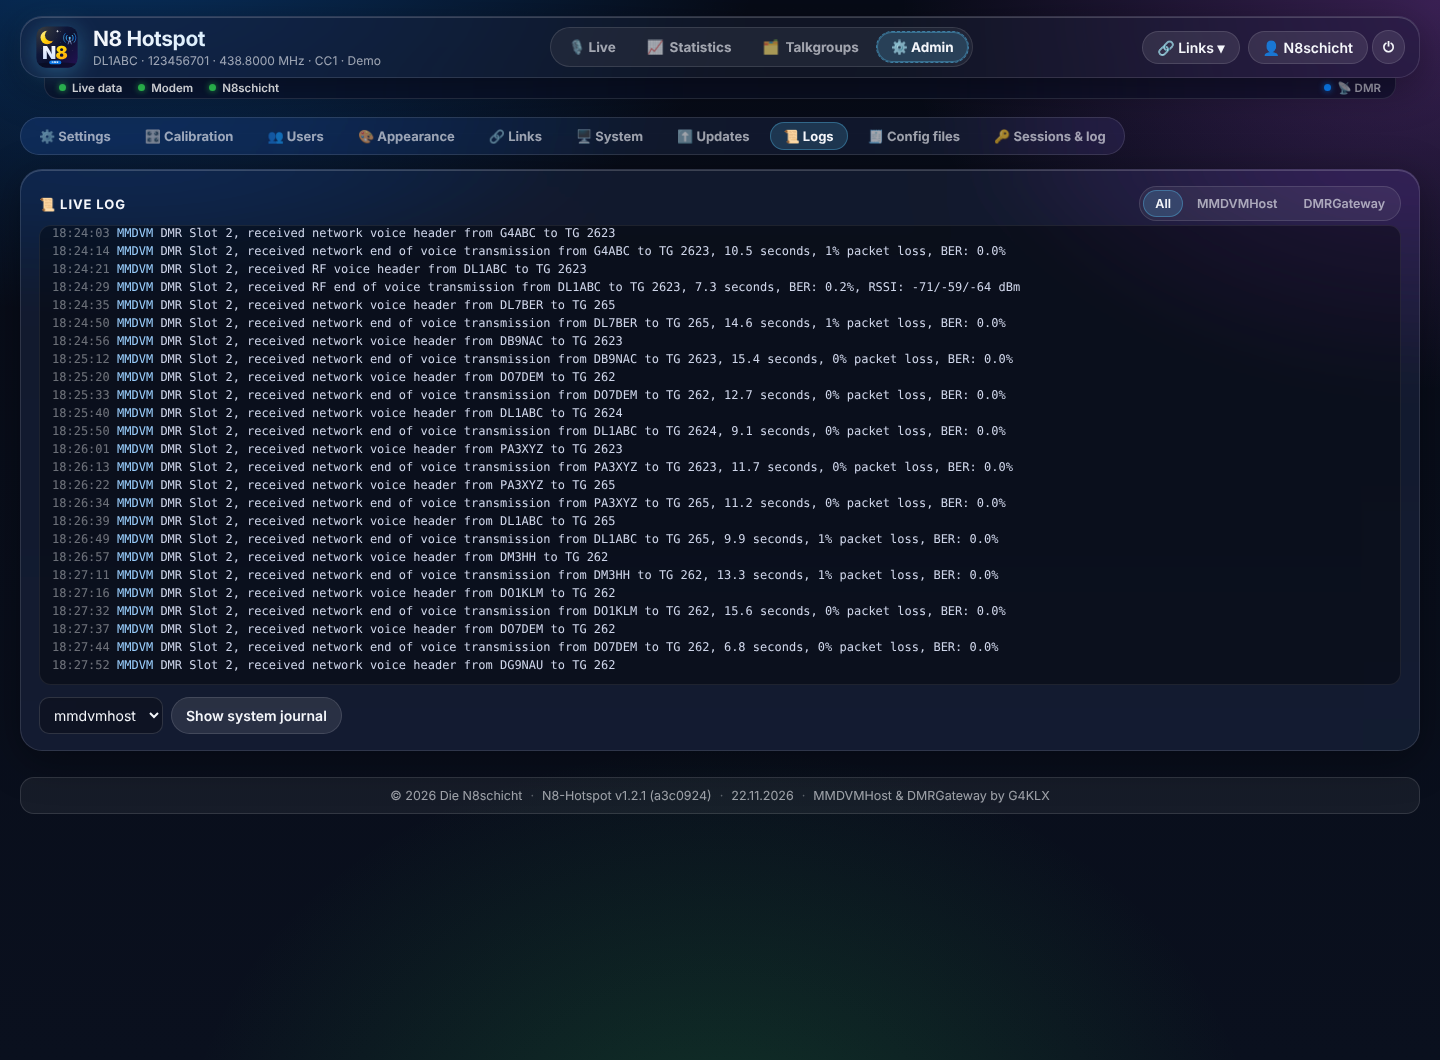
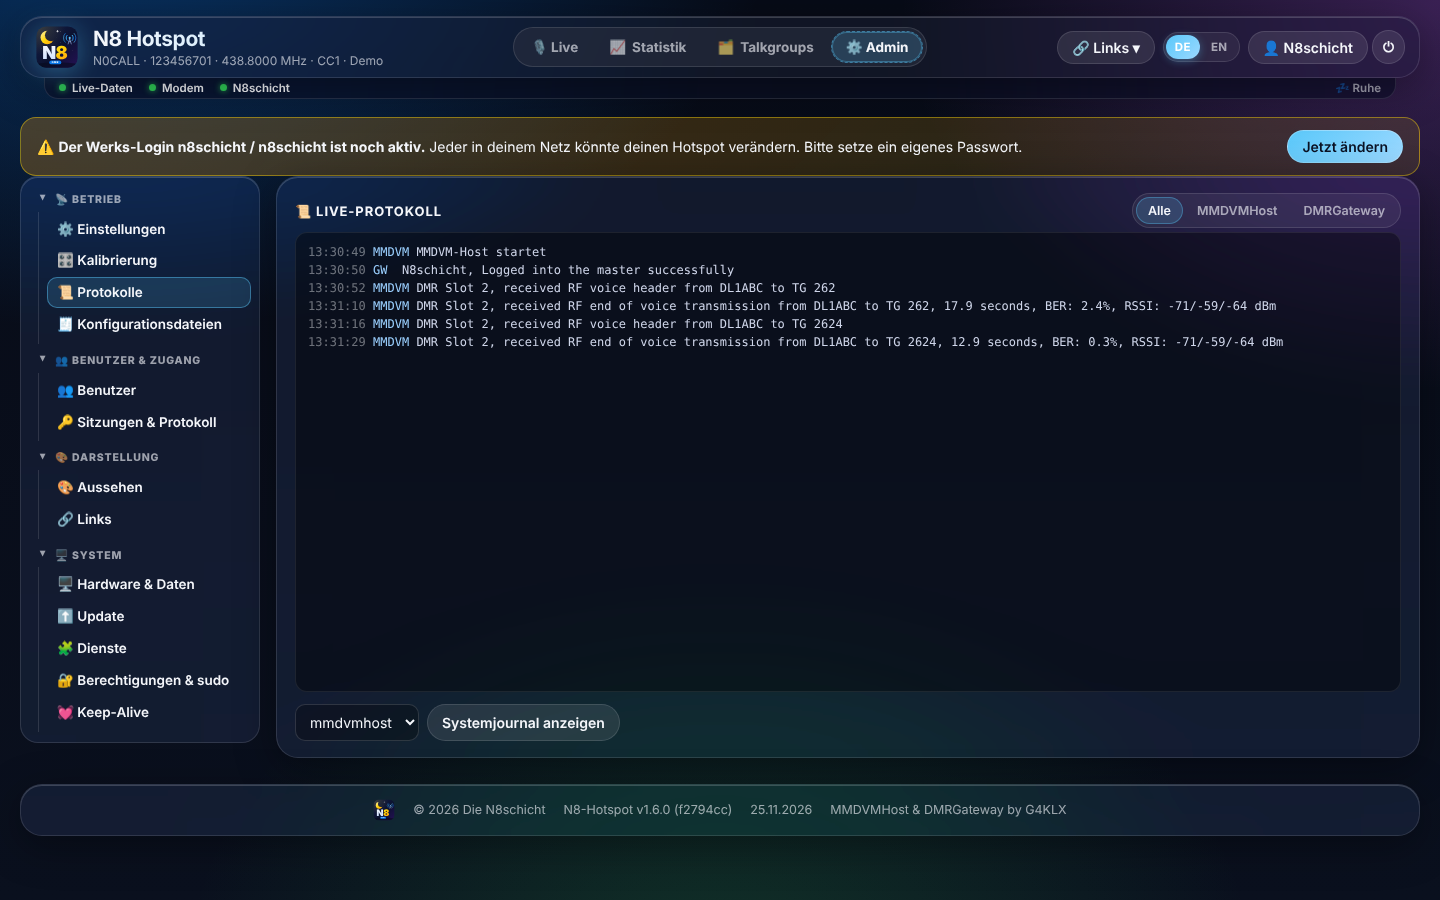
Release 1.6.0: Baum-Menü, einheitlicher Bereich System, Keep-Alive, Update ohne Passwort
Ausführlich in CHANGELOG.md. Doku (Adminbereich, Updates & Versionen, readme) und Screenshots aktualisiert.

Claude-Session: https://claude.ai/code/session_01J5RG2nh5KG4yZP2DtuvZ9u

diff --git a/docs/de/updates.md b/docs/de/updates.md
@@ -21,11 +21,11 @@ Gibt es etwas Neues, sehen **nur Admins** unter der Statusleiste den Hinweis *Up
 Hinweis, Kachel und Fortschritt kommen aus dem **N8 Kit** und sehen in N8-HotSpot, HBlink4-FreeRadioID, adn-frn-server und
 N8 Crosslink gleich aus (siehe [Sicherheit & N8 Kit](sicherheit.md)).
 
-## Admin → Updates
+## Admin → System → ⬆ Update
 
-<p align="center"><img src="../images/admin-updates.png" alt="Admin → Updates" width="95%"></p>
+<p align="center"><img src="../images/admin-updates.png" alt="Admin → System → Update" width="95%"></p>
 
-Links steht die Kachel **⬆ Updates**:
+Seit 1.6.0 ist das dieselbe Ansicht wie in allen N8-Systemen (N8 Kit 1.1.0). Links steht die Kachel **⬆ Update**, rechts das **📜 Update-Protokoll**:
 
 | Zeile | Bedeutung |
 |---|---|
@@ -39,7 +39,7 @@ Links steht die Kachel **⬆ Updates**:
 Darunter stehen die **Änderungen der neuen Version** (*Was ist neu*), direkt aus [CHANGELOG.md](../../CHANGELOG.md).
 **↻ Jetzt prüfen** fragt sofort nach, **⬆ Update jetzt installieren** installiert.
 
-Rechts sind die **Update settings**:
+Darunter stehen die **Update-Einstellungen**:
 
 | Einstellung | Vorgabe | Bedeutung |
 |---|---|---|
@@ -57,10 +57,10 @@ Rechts sind die **Update settings**:
   <img src="../images/update-dialog-done.png" alt="Update läuft" width="42%">
 </p>
 
-**⬆ Update jetzt installieren** (oder **Jetzt aktualisieren** im Hinweis) zeigt die Neuerungen und was passiert, und fragt zur
-Sicherheit noch einmal **dein Passwort** ab. Nach 5 falschen Versuchen ist 15 Minuten Pause – genau wie beim Login; ein falsches
-Passwort lässt das Fenster offen. Dann siehst du drei Schritte: **Update wird geladen und eingespielt → Dienst startet neu →
-Weboberfläche wird geprüft**. Im Einzelnen:
+**⬆ Update jetzt installieren** (oder **Jetzt aktualisieren** im Hinweis) zeigt die Neuerungen und was passiert. Seit **1.6.0**
+fragt es **nicht mehr nach dem Passwort** – eine Admin-Sitzung (mit dem Sicherheits-Header gegen fremde Seiten) genügt, wie in allen
+N8-Systemen. Dann siehst du drei Schritte: **Update wird geladen und eingespielt → Dienst startet neu → Weboberfläche wird geprüft**.
+Im Einzelnen:
 
 Seit **1.5.0** läuft das Update über das gemeinsame **N8 Admin-Kit** (`scripts/n8-admin.sh`, dasselbe wie im HobbyRadioPortal,
 adn-frn-server und HBlink4-FreeRadioID, nach dem Vorbild von N8 Crosslink). Die Weboberfläche schreibt nur eine Anforderung
@@ -96,9 +96,12 @@ Ein Update wird **abgelehnt**, wenn
 
 ## 🔐 Dienste, Berechtigungen & sudo
 
-<p align="center"><img src="../images/admin-system.png" alt="System: Dienste und Berechtigungen & sudo" width="90%"></p>
+<p align="center">
+  <img src="../images/admin-services.png" alt="System → Dienste" width="48%">
+  <img src="../images/admin-perms.png" alt="System → Berechtigungen & sudo" width="48%">
+</p>
 
-Unter **Admin → System** stehen seit 1.5.0 zwei Kacheln des N8 Admin-Kits:
+Seit 1.6.0 haben beide einen eigenen Eintrag im Menü unter **System** (vorher Kacheln unter *System*):
 
 **🧩 Dienste** – MMDVMHost, DMRGateway, MQTT (mosquitto), die Weboberfläche und der Update-Auslöser, jeweils mit Zustand,
 **Autostart**-Schalter und **↻ Neu starten · ▶ Starten · ■ Stoppen** (die Weboberfläche lässt sich nur neu starten).
@@ -124,6 +127,33 @@ sudo /opt/n8hotspot/scripts/n8-admin.sh fix-perms      # prüfen → korrigieren
 
 Installer und jedes Update rufen `fix-perms` selbst auf. Nimmt die Korrektur die Linux-Konsole vom UART, ist einmal
 `sudo reboot` nötig.
+
+## 💓 Keep-Alive
+
+<p align="center"><img src="../images/admin-keepalive.png" alt="System → Keep-Alive" width="95%"></p>
+
+Seit **1.6.0** wacht ein Keep-Alive über den Hotspot. `n8hotspot-keepalive.timer` startet **jede Minute als root**
+`scripts/n8-admin.sh keepalive`:
+
+| Was | Wie |
+|---|---|
+| **Weboberfläche** | antwortet sie auf `http://127.0.0.1:<Port>/api/info`? |
+| **MQTT** | sind die Live-Daten verbunden? (`/api/n8/health`, nur lokal erreichbar) |
+| **MMDVMHost** | ist das Modem offen? |
+| **DMRGateway** | ist die Verbindung zum DMR-Server da? |
+| **Neustart** | nach **3 Minuten** krank (sofort bei `failed`), **höchstens 4× je Stunde** – danach „aufgegeben“ im Protokoll |
+| **Internet-Ausfall** | 1.1.1.1, 9.9.9.9 und github.com (Port 443) nicht erreichbar → keine sinnlosen Neustarts; ist das Netz nach mindestens 60 s wieder da, wird DMRGateway einmal neu gestartet |
+| **Heartbeat** | optional jede Minute ein Ping an Uptime Kuma („Push“) oder Healthchecks.io, bei Fehlern an die Fehler-Adresse |
+| **Wartung** | **⏸ 1 h pausieren**; ein unter *Dienste* gestoppter Dienst bleibt gestoppt, bis du ihn dort startest |
+
+Dateien in `data/`: `keepalive.conf` (Einstellungen aus dem Browser), `keepalive.json` (Zustand), `keepalive.log` (Protokoll,
+höchstens 400 Zeilen). Eingerichtet wird der Timer von Installer, Update und `fix-perms`; `check-perms` prüft ihn mit.
+
+```bash
+systemctl status n8hotspot-keepalive.timer               # läuft der Wächter?
+sudo /opt/n8hotspot/scripts/n8-admin.sh keepalive        # eine Runde von Hand
+tail -f /opt/n8hotspot/data/keepalive.log
+```
 
 ## Automatische Updates
 

diff --git a/docs/de/adminbereich.md b/docs/de/adminbereich.md
@@ -4,6 +4,25 @@
 
 ---
 
+## Das Menü
+
+<p align="center"><img src="../images/admin-keepalive.png" alt="Adminbereich mit Baum-Menü" width="95%"></p>
+
+Seit **1.6.0** steht links ein **Baum-Menü** – dasselbe wie im HobbyRadioPortal, ADN-FRN-Server, HBlink4-FreeRadioID und N8 Crosslink,
+mit denselben Gruppen in derselben Reihenfolge:
+
+| Gruppe | Einträge beim Hotspot |
+|---|---|
+| 📡 **Betrieb** | ⚙ Einstellungen · 🎛 Kalibrierung · 📜 Protokolle · 🧾 Konfigurationsdateien |
+| 👥 **Benutzer & Zugang** | 👥 Benutzer · 🔑 Sitzungen & Protokoll |
+| 🎨 **Darstellung** | 🎨 Aussehen · 🔗 Links |
+| 🖥 **System** | 🖥 Hardware & Daten · ⬆ Update · 🧩 Dienste · 🔐 Berechtigungen & sudo · 💓 Keep-Alive |
+
+Gruppen klappen per Klick auf und zu (der Browser merkt sich das). Auf dem Handy wird das Menü zu einer Leiste
+„☰ *aktueller Bereich*“, die sich aufklappen lässt. Kacheln einer Reihe sind gleich hoch, die Knöpfe stehen unten bündig.
+
+<p align="center"><img src="../images/admin-mobile-menu.png" alt="Menü auf dem Handy" width="32%"></p>
+
 ## Anmelden und Standard-Login
 
 <p align="center">
@@ -137,23 +156,35 @@ Mit ↑ änderst du die Reihenfolge, ✕ entfernt einen Link, **＋ Link** fügt
 nicht von der fremden Seite. Ohne Internet bleibt das Emoji stehen. Abgefragt werden nur öffentliche Adressen (keine Adressen im
 Heimnetz), höchstens 256 KB, und SVG-Dateien mit Skripten werden abgelehnt. Alle Site-Icons werden täglich um Mitternacht neu geladen; **Refresh site icons now** erzwingt den Abruf sofort.
 
-## ⬆ Updates
+## ⬆ Update
 
-<p align="center"><img src="../images/admin-updates.png" alt="Updates" width="95%"></p>
+<p align="center"><img src="../images/admin-updates.png" alt="Update" width="95%"></p>
 
-Kachel **⬆ Updates** im N8-Kit-Stil: installierte Version, Stand auf GitHub, zuletzt geprüft, letztes Update (erfolgreich/zurückgenommen), Änderungen der neuen Version, **↻ Jetzt prüfen** und **⬆ Update jetzt installieren** (mit Passwortabfrage, Fortschritt und automatischem Rollback). Einzelheiten: [Updates](updates.md).
-Daneben die Kachel **🔐 Permissions**: ob die Weboberfläche die Modem-Schnittstellen öffnen, die Dienste neu starten und sich selbst
-aktualisieren darf – mit dem Befehl zum Reparieren, falls etwas fehlt.
-Rechts: stündliche Prüfung, automatische Updates zu einer festen Stunde und ob MMDVMHost/DMRGateway mit neu starten.
-Alles dazu – auch wie die Dienste ohne Änderung an `sudoers` neu starten – steht unter **[⬆ Updates & Versionen](updates.md)**.
+**System → ⬆ Update** – dieselbe Ansicht wie in allen N8-Systemen: installierte Version, Stand auf GitHub, zuletzt geprüft,
+**↻ Jetzt prüfen** und **⬆ Update jetzt installieren** (seit 1.6.0 **ohne Passwortabfrage**, mit Fortschritt und automatischem
+Rollback), rechts das **📜 Update-Protokoll**. Darunter die **Update-Einstellungen** des Hotspots: stündliche Prüfung, automatische
+Updates zu einer festen Stunde und ob MMDVMHost/DMRGateway mit neu starten. Alles dazu: **[⬆ Updates & Versionen](updates.md)**.
+
+## 🧩 Dienste · 🔐 Berechtigungen & sudo · 💓 Keep-Alive
+
+<p align="center">
+  <img src="../images/admin-services.png" alt="Dienste" width="48%">
+  <img src="../images/admin-perms.png" alt="Berechtigungen & sudo" width="48%">
+</p>
+
+- **🧩 Dienste**: MMDVMHost, DMRGateway, MQTT, Weboberfläche und Update-Auslöser mit Zustand, Autostart und Starten · Stoppen · Neu starten
+- **🔐 Berechtigungen & sudo**: zeigt nur, was nicht stimmt; **🛠 Korrigieren** repariert und prüft erneut
+- **💓 Keep-Alive**: prüft jede Minute als root, ob alles wirklich läuft, startet kranke Dienste neu, erkennt Internet-Ausfälle und
+  meldet sich bei einer Heartbeat-Adresse – Einzelheiten unter [Updates & Versionen → Keep-Alive](updates.md#-keep-alive)
 
 ## 🖥 System
 
 <p align="center"><img src="../images/admin-system.png" alt="System" width="90%"></p>
 
+Seit 1.6.0 heißt der Eintrag **🖥 Hardware & Daten**; Update, Dienste, Berechtigungen und Keep-Alive haben eigene Einträge im Menü.
+
 - **Hardware**: Board, Betriebssystem, Hostname, IP, **CPU-Temperatur** (grün < 60 °C), Last, Speicher, SD-Karte, Laufzeit; dazu **Reboot** und **Shut down**
-- **Services**: MMDVMHost, DMRGateway, MQTT-Broker und die Weboberfläche mit Status; Start, Stop, Restart
-- **Versionen** von MMDVMHost, DMRGateway, MMDVMCal und N8-Hotspot, Status der MQTT-Live-Daten (Updates für N8-Hotspot: Tab *⬆ Updates*)
+- **Versionen** von MMDVMHost, DMRGateway, MMDVMCal und N8-Hotspot, Status der MQTT-Live-Daten (Updates: *System → ⬆ Update*)
 - **DMR ID list**: Zahl der IDs, letztes Update, **⟳ Update now** (lädt auch die FreeRadioID-Liste)
 - **FreeRadioID.net**: registrierte IDs, gespeicherte Avatare, letztes Update
 - **Talkgroup list**: Zahl der Namen aus der N8schicht-Liste und der eigenen Namen, letztes Update (wird mit **⟳ Update now** neu geladen)

diff --git a/CHANGELOG.md b/CHANGELOG.md
@@ -4,6 +4,57 @@ Alle Versionen von **N8-Hotspot** (DMR Die N8schicht), die neueste oben.
 Die Nummern folgen [Semantic Versioning](https://semver.org/lang/de/): `MAJOR.MINOR.PATCH`.
 Wie Versionen und Updates funktionieren, steht in [docs/de/updates.md](docs/de/updates.md).
 
+## [1.6.0] – 2026-11-25
+
+### 🧭 Neu: Admin-Menü als Baum – in allen fünf N8-Systemen gleich
+- Die Reiterleiste im Adminbereich ist einem **Baum-Menü links** gewichen, wie im HobbyRadioPortal. Alle N8-Systeme
+  (HobbyRadioPortal, ADN-FRN-Server, HBlink4-FreeRadioID, N8 Hotspot, N8 Crosslink) nutzen jetzt **dieselben Gruppen in derselben
+  Reihenfolge**: 📡 Betrieb · 👥 Benutzer & Zugang · 🎨 Darstellung · 🌐 Netz & Domains · 🖥 System.
+- Gruppen lassen sich auf- und zuklappen (der Zustand wird im Browser gemerkt); auf dem Handy wird das Menü zu einer
+  aufklappbaren Leiste „☰ <aktueller Bereich>“.
+- Hotspot: Einstellungen, Kalibrierung, Protokolle und Konfigurationsdateien unter **Betrieb**; „🖥 Hardware & Daten“
+  unter **System**.
+
+### 🖥 Neu: Derselbe Bereich „System“ überall
+- **⬆ Update · 🧩 Dienste · 🔐 Berechtigungen & sudo · 💓 Keep-Alive** sind gemeinsame Ansichten des N8 Kit 1.1.0 und sehen in
+  allen N8-Systemen gleich aus – mit denselben Texten, Knöpfen und Adressen (`/api/admin/services`, `/api/admin/perms`,
+  `/api/admin/perms/fix`, `/api/admin/keepalive`, `/api/admin/update-log`).
+- **Update:** Stand, GitHub, „Jetzt prüfen“, „Update jetzt installieren“ und daneben das **Update-Protokoll** mit dem Ergebnis des
+  letzten Updates (erfolgreich / zurückgenommen).
+  Darunter die **Update-Einstellungen** des Hotspots (Prüfintervall, automatisch installieren, Stunde, Funkdienste neu starten).
+- **Dienste:** Zustand, Autostart-Schalter und Starten · Stoppen · Neu starten – nur, was die sudo-Regeln freigeben.
+- **Berechtigungen & sudo:** zeigt zuerst nur, was nicht stimmt; die bestandenen Prüfungen klappen auf. **🛠 Korrigieren**
+  repariert und prüft erneut.
+- **Keep-Alive:** Zustand je Dienst, Internet, Heartbeat, Einstellungen und Protokoll.
+
+### 🔓 Update ohne Passwort
+- **„Update jetzt installieren“ fragt nicht mehr nach dem Passwort.** Eine Admin-Sitzung mit CSRF-Header genügt; installiert
+  wird wie bisher als root mit Prüfung und automatischem Zurücksetzen.
+
+### 📐 Symmetrische Blöcke
+- Kacheln einer Reihe sind im Adminbereich jetzt **gleich hoch**, die Knöpfe stehen unten bündig; eine einzelne letzte Kachel
+  nimmt die volle Breite ein.
+
+### 🧰 Kleinigkeiten
+- N8 Kit: Schriften im Menü und auf den Knöpfen werden jetzt richtig gesetzt (die `font`-Kurzform mit `inherit` war ungültig und
+  wurde vom Browser verworfen).
+
+### 💓 Neu: Keep-Alive – hohe Verfügbarkeit ohne Zutun
+- **Dienste-Wächter:** Ein systemd-Timer (`n8hotspot-keepalive.timer`) prüft **jede Minute als root**, ob jeder Dienst wirklich arbeitet –
+  nicht nur „läuft“, sondern die Weboberfläche antwortet, MQTT läuft, das Modem offen ist und DMRGateway mit dem DMR-Server verbunden ist. Bleibt ein Dienst 3 Minuten krank (oder steht er auf `failed`), wird er neu gestartet,
+  **höchstens 4× je Stunde** – danach meldet der Keep-Alive „aufgegeben“ statt endlos neu zu starten.
+- **Netz-Wiederverbindung:** Fällt das Internet aus (1.1.1.1, 9.9.9.9 und github.com auf Port 443 nicht erreichbar), startet der
+  Keep-Alive **nicht** sinnlos neu. Ist das Netz nach mindestens 60 s wieder da, startet er die Netzdienste einmal neu, damit
+  alle Verbindungen sofort wieder stehen (abschaltbar).
+- **Externer Ping (Heartbeat):** Optional eine Adresse für Uptime Kuma („Push“) oder Healthchecks.io – jede Minute ein Ping,
+  wenn alles gesund ist, sonst die Fehler-Adresse. So merkst du auch, wenn der ganze Server weg ist.
+- **Von Hand gestoppt bleibt gestoppt:** Wer einen Dienst im Webinterface stoppt, wird vom Keep-Alive nicht übergangen; erst
+  „Starten“ gibt ihn wieder frei. Für Wartungen gibt es **⏸ 1 h pausieren**.
+- Neue lokale Adresse `/api/n8/health` (nur von 127.0.0.1, nie über einen Proxy) liefert dem Keep-Alive den echten Zustand.
+- Eingerichtet von `install`, `update` und `fix-perms`; `check-perms` prüft den Timer mit.
+
+> Auf bestehenden Servern genügt „Update jetzt“ im Webinterface; der Keep-Alive richtet sich dabei selbst ein.
+
 ## [1.5.3] – 2026-11-25
 
 ### 🐛 Fix: „sudo verweigert“ und „Installiert vX · ?“ nach dem Umstellen auf das N8 Admin-Kit

diff --git a/readme.md b/readme.md
@@ -99,11 +99,11 @@ Ohne vorher eingetragene Hotspot-Einstellungen geht es im Browser weiter: **Logi
 <td><img src="docs/images/serial-scan.png" alt="Modem finden"><br><b>🔍 Modem finden</b>: Scan der seriellen Schnittstellen.</td>
 </tr>
 <tr>
-<td><img src="docs/images/admin-system.png" alt="System"><br><b>🖥 System</b>: Temperatur, Speicher, Dienste starten/stoppen, ID-Liste, FreeRadioID, Neustart.</td>
+<td><img src="docs/images/admin-keepalive.png" alt="Keep-Alive"><br><b>💓 Keep-Alive</b>: prüft jede Minute Modem, DMR-Server, MQTT und Weboberfläche, startet neu, Heartbeat.</td>
 <td><img src="docs/images/setup-2.png" alt="Zusammenfassung"><br><b>🧭 Geführte Einrichtung</b>: Zusammenfassung, Installation, fertig.</td>
 </tr>
 <tr>
-<td><img src="docs/images/admin-updates.png" alt="Updates"><br><b>⬆ Updates</b>: Version, Änderungen, Update now, automatische Updates.</td>
+<td><img src="docs/images/admin-updates.png" alt="Update"><br><b>⬆ Update</b>: Baum-Menü wie in allen N8-Systemen, Update ohne Passwort, Update-Protokoll.</td>
 <td><img src="docs/images/admin-appearance.png" alt="Aussehen"><br><b>🎨 Appearance</b>: Farbprofile, eigene Farben, Vorschau mit Lesbarkeit.</td>
 </tr>
 <tr>
@@ -119,8 +119,8 @@ Ohne vorher eingetragene Hotspot-Einstellungen geht es im Browser weiter: **Logi
 | 📦 [Installation & Image](docs/de/installation.md) | Hardware, Image bauen und flashen, geführte Einrichtung, Installation ohne Fragen, erster Start, Aktualisieren |
 | 🎙 [Live & Statistik](docs/de/bedienung.md) | Kopfzeile, das Funkgerät (LEDs, Display, Zeitschlitze), Vocoder & Signal, Last Heard, Talkgroup-Verzeichnis, Statistik-Diagramme |
 | 🔐 [Sicherheit & N8 Kit](docs/de/sicherheit.md) | Sicherheits-Header, API-Doku aus, Reverse-Proxy (Caddy/nginx), Sprache DE/EN, Updates mit Prüfung und Rollback |
-| ⚙ [Adminbereich](docs/de/adminbereich.md) | Standard-Login, alle Einstellungen, Modem finden, Benutzer, Aussehen, Links, System, Logs, Konfigurationsdateien |
-| ⬆ [Updates & Versionen](docs/de/updates.md) | Update-Prüfung, Update jetzt (N8 Admin-Kit), Update-Protokoll, automatische Updates, Dienste, Berechtigungen & sudo, Versionsnummern, [Änderungen](CHANGELOG.md) |
+| ⚙ [Adminbereich](docs/de/adminbereich.md) | Baum-Menü, Standard-Login, alle Einstellungen, Modem finden, Benutzer, Aussehen, Links, System, Logs, Konfigurationsdateien |
+| ⬆ [Updates & Versionen](docs/de/updates.md) | Update-Prüfung, Update jetzt (N8 Admin-Kit), Update-Protokoll, automatische Updates, Dienste, Berechtigungen & sudo, Keep-Alive, Versionsnummern, [Änderungen](CHANGELOG.md) |
 | 🎛 [Kalibrierung](docs/de/kalibrierung.md) | Frequenz-Offset mit MMDVMCal finden, weitere Tests |
 | 🛡 [FreeRadioID](docs/de/freeradioid.md) | Avatare, FRID, Profile, ID-Datenbank, Stationsansicht |
 | 🧩 [Technik](docs/de/technik.md) | Aufbau (MMDVMHost ↔ DMRGateway ↔ MQTT), Dateien, Ports, API, Sicherheit |
@@ -128,7 +128,7 @@ Ohne vorher eingetragene Hotspot-Einstellungen geht es im Browser weiter: **Logi
 
 ## Aktualisieren
 
-Im Browser: **Admin → ⬆ Updates → Update jetzt** – der Hotspot prüft stündlich selbst und meldet neue Versionen. Das Update läuft
+Im Browser: **Admin → System → ⬆ Update → Update jetzt** (ohne Passwort) – der Hotspot prüft stündlich selbst und meldet neue Versionen. Das Update läuft
 als root über das N8 Admin-Kit mit Prüfung und automatischem Rückweg; das Protokoll steht gleich daneben
 (➡ [Updates & Versionen](docs/de/updates.md), alle Änderungen in [CHANGELOG.md](CHANGELOG.md)). Auf der Konsole:
 
